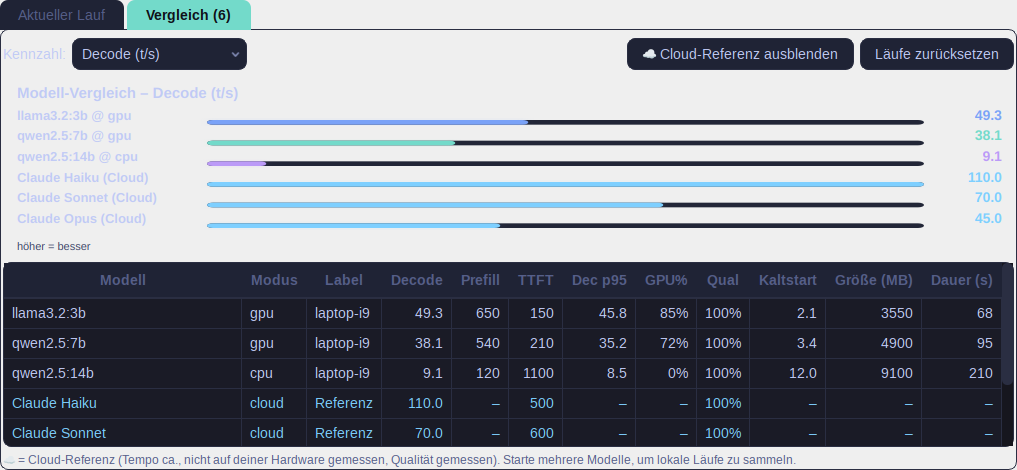
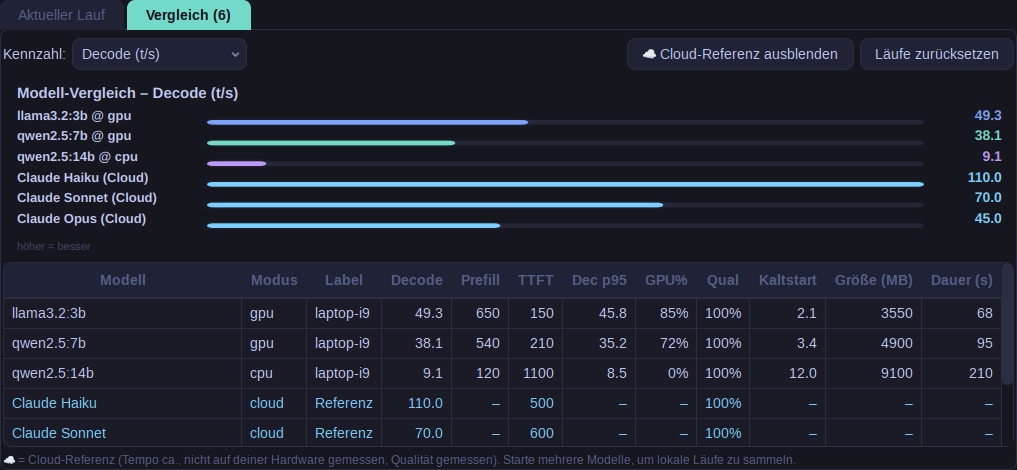
Theme: dunkle Palette erzwingen (Fusion) – konsistent dark auf jedem System
- apply_theme(): Fusion-Style + dunkle QPalette + Stylesheet. Vorher waren auf
  hell-themed Systemen (und in den offscreen-gerenderten Screenshots) die Flächen
  zwischen den Karten hell und die Gruppentitel kaum lesbar.
- Screenshots (assets/screenshots/) mit dunkler Palette neu gerendert.

diff --git a/benchmark_gui.py b/benchmark_gui.py
@@ -1246,6 +1246,33 @@ QToolTip {{ background: {INPUT}; color: {TXT}; border: 1px solid {BORDER}; paddi
 """
 
 
+def apply_theme(app):
+    """Erzwingt ein dunkles Theme (Fusion + dunkle Palette + Stylesheet), damit die
+    App auf JEDEM System (auch hell-themed) und in Screenshots durchgehend dunkel ist."""
+    from PySide6.QtGui import QPalette
+    app.setStyle("Fusion")
+    pal = QPalette()
+    pal.setColor(QPalette.Window, QColor(BG))
+    pal.setColor(QPalette.WindowText, QColor(TXT))
+    pal.setColor(QPalette.Base, QColor(INPUT))
+    pal.setColor(QPalette.AlternateBase, QColor(CARD))
+    pal.setColor(QPalette.Text, QColor(TXT))
+    pal.setColor(QPalette.Button, QColor(INPUT))
+    pal.setColor(QPalette.ButtonText, QColor(TXT))
+    pal.setColor(QPalette.ToolTipBase, QColor(INPUT))
+    pal.setColor(QPalette.ToolTipText, QColor(TXT))
+    pal.setColor(QPalette.Highlight, QColor(BLUE))
+    pal.setColor(QPalette.HighlightedText, QColor(BG))
+    pal.setColor(QPalette.PlaceholderText, QColor(TXT2))
+    pal.setColor(QPalette.Disabled, QPalette.Text, QColor("#3b4261"))
+    pal.setColor(QPalette.Disabled, QPalette.WindowText, QColor("#3b4261"))
+    app.setPalette(pal)
+    app.setStyleSheet(STYLESHEET)
+    ic = QIconSafe()
+    if ic:
+        app.setWindowIcon(ic)
+
+
 def main():
     if "--selftest" in sys.argv:
         with open(resource_path("tasks.json"), encoding="utf-8") as f:
@@ -1255,10 +1282,7 @@ def main():
         return
     app = QApplication(sys.argv)
     app.setApplicationName("LLM-Benchmark")
-    app.setStyleSheet(STYLESHEET)
-    ic = QIconSafe()
-    if ic:
-        app.setWindowIcon(ic)
+    apply_theme(app)
     win = MainWindow()
     win.show()
     sys.exit(app.exec())
